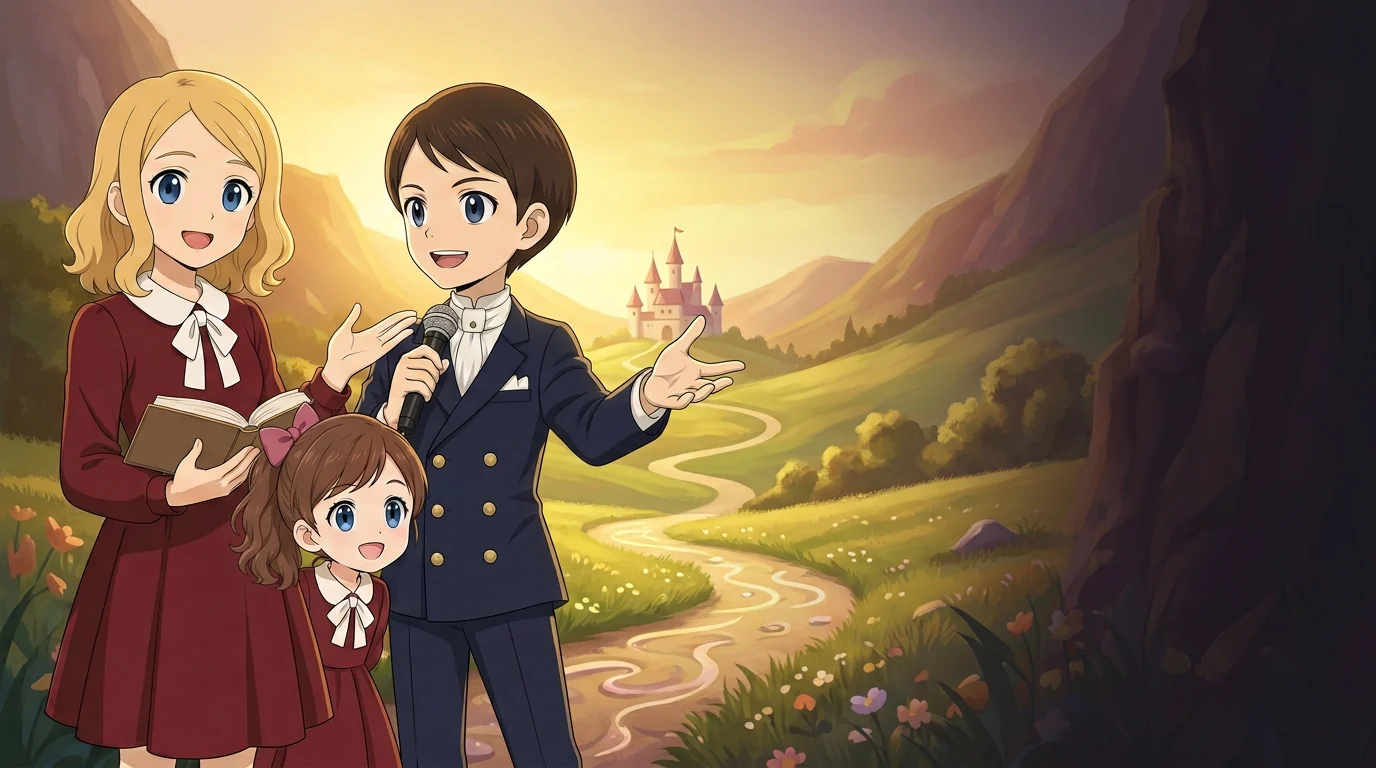
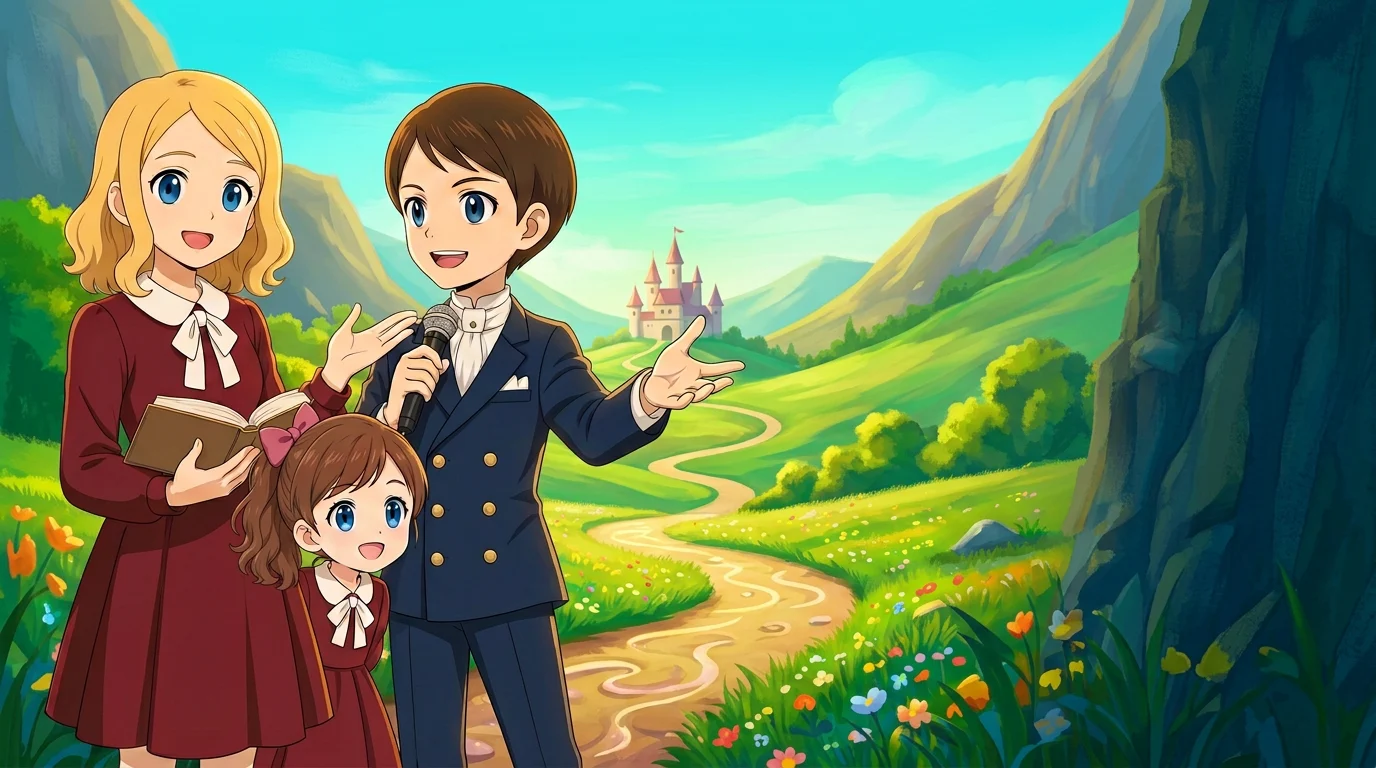
Brighten journey welcome to match map

diff --git a/src/components/JourneyWelcome.css b/src/components/JourneyWelcome.css
@@ -5,7 +5,7 @@
   height: 100vh;
   height: 100dvh;
   overflow: hidden;
-  background: #281821;
+  background: linear-gradient(145deg, #147faa, #075076);
   color: #fff8eb;
 }
 .journey-welcome-art, .journey-welcome-shade {
@@ -17,7 +17,7 @@
   background: url('/journey-intro/welcome.webp') 30% center / cover no-repeat;
 }
 .journey-welcome-shade {
-  background: linear-gradient(to left, #271522fa 0%, #301b29e8 25%, #301b2980 43%, transparent 62%);
+  background: linear-gradient(to left, #074b70f0 0%, #075b76d9 25%, #0a6c8055 43%, transparent 62%);
 }
 .journey-welcome-copy {
   position: absolute;
@@ -79,7 +79,7 @@
 }
 @media (max-width: 1100px) and (orientation: portrait) {
   .journey-welcome-art { inset: 38% 0 0; background-position: left center; }
-  .journey-welcome-shade { background: linear-gradient(to bottom, #281822 0%, #281822 29%, #281822bd 42%, transparent 58%, #28182299 100%); }
+  .journey-welcome-shade { background: linear-gradient(to bottom, transparent 28%, #0c6d9288 38%, transparent 53%, #06435c55 100%); }
   .journey-welcome-copy { top: max(5%, env(safe-area-inset-top)); right: 7%; width: 86%; transform: none; }
   .journey-welcome-kicker { font-size: .82rem; margin-bottom: 7px; }
   .journey-welcome h1 { font-size: clamp(2rem, 8vw, 2.8rem); margin-bottom: .25em; }
